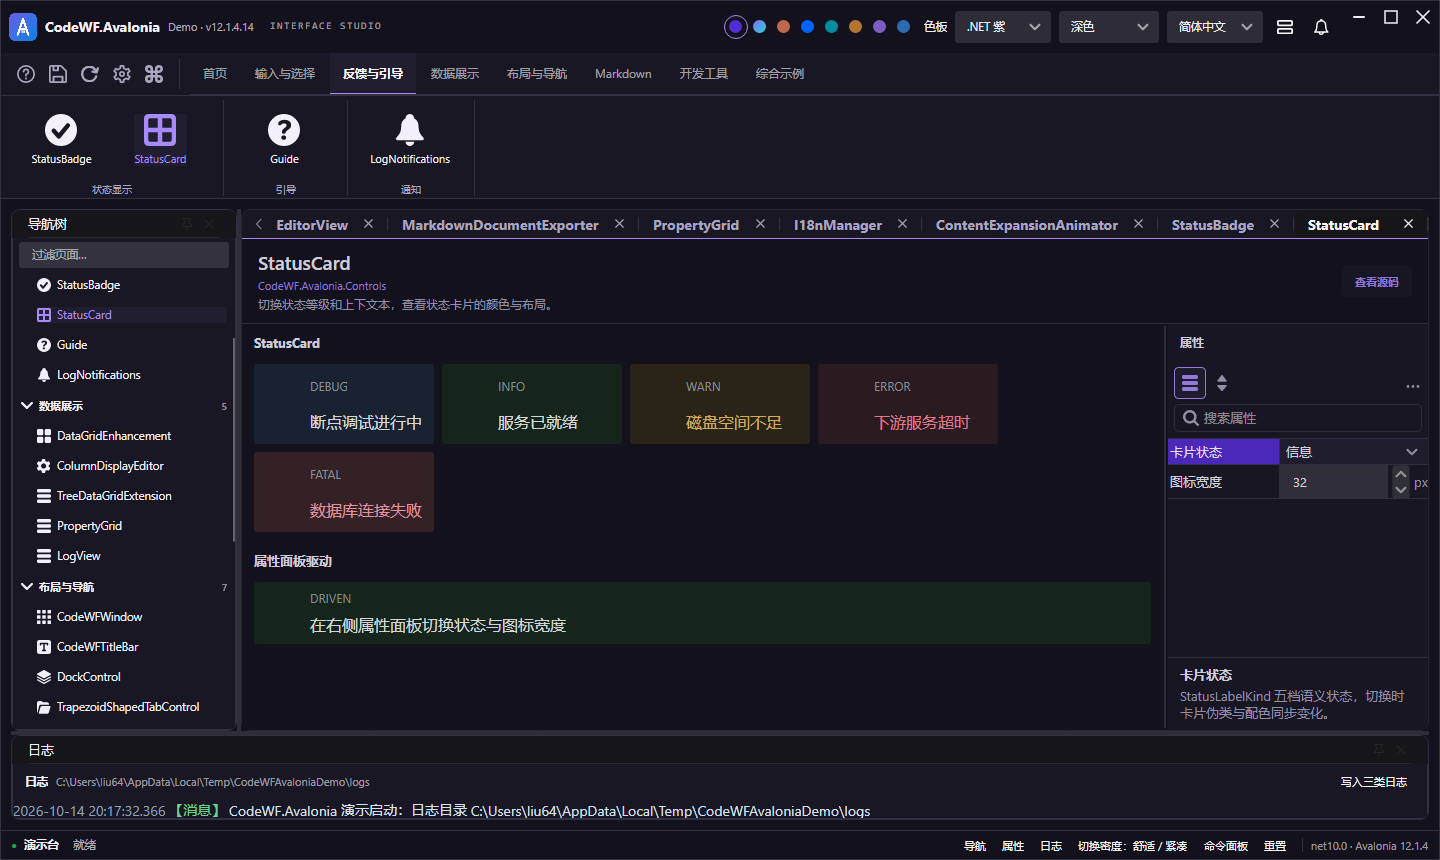
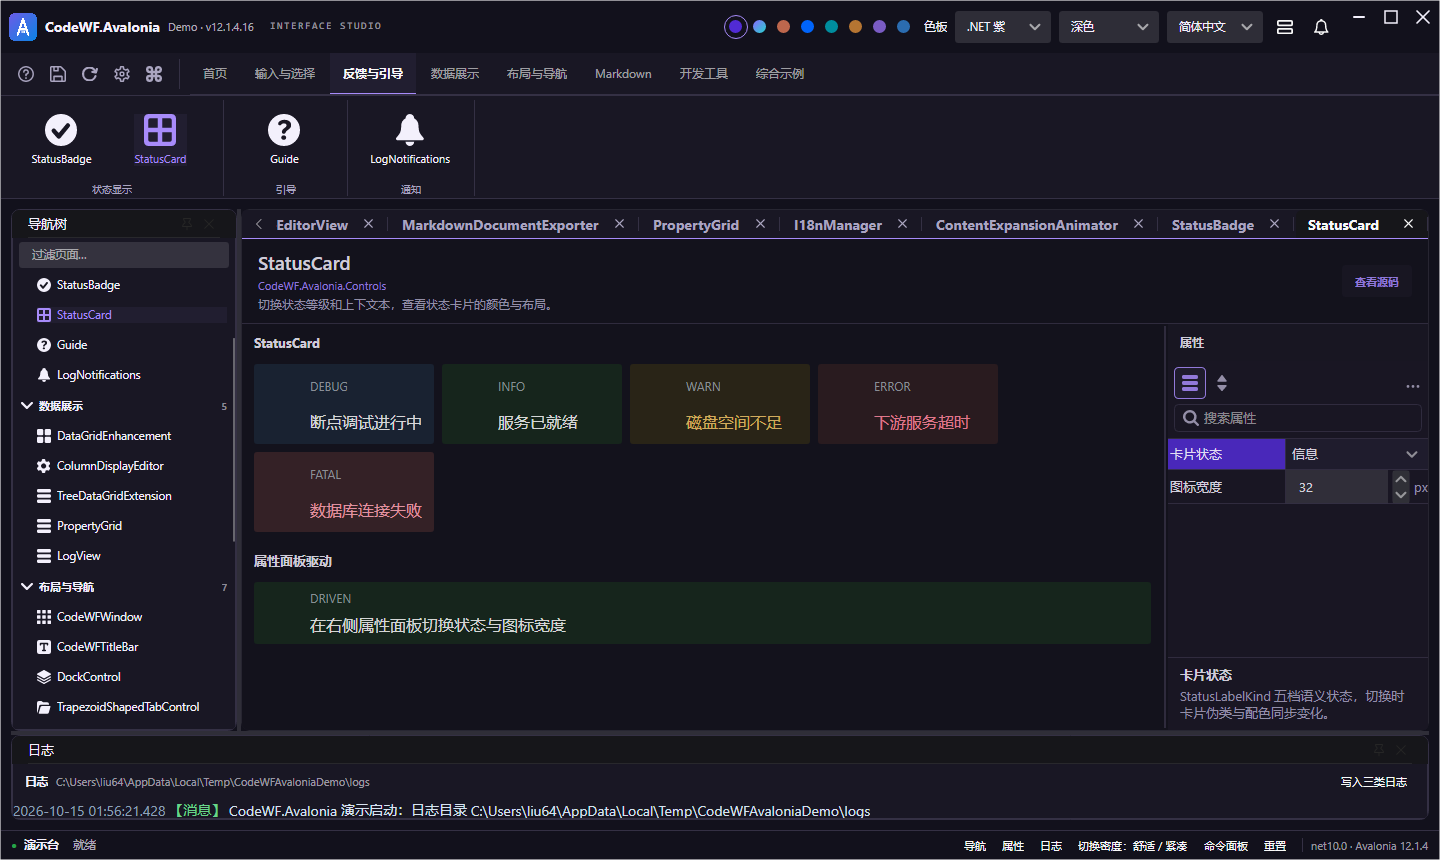
docs(demo): 更新原生截图和自动验收记录

diff --git a/README.md b/README.md
@@ -178,6 +178,8 @@ Each Dock document contains its demonstration and property panel; both move toge
 
 Windows x64 NativeAOT Demo：标题栏支持主题色圈与下拉同步切换，默认 .NET 紫，共八套配色；浅色、深色与跟随系统分别选择。首页目录包含 32 个页面，实验区按需展开；完整功能与验收范围见上面的文档。
 
+快捷入口采用 16×16 图标与 30×30 点击热区，Ribbon 主命令使用 32×32 图标。每个文档内的演示和属性面板通过 GridSplitter 调整宽度，属性默认行高 31px、名称列宽 118px；下列图片来自 `12.1.4.16` 的 Windows x64 NativeAOT 程序。
+
 ![.NET 紫色原生演示台](https://raw.githubusercontent.com/dotnet9/CodeWF.Avalonia/main/docs/images/studio-dotnet.png)
 
 ![AI 极光浅色原生演示台](https://raw.githubusercontent.com/dotnet9/CodeWF.Avalonia/main/docs/images/studio-aurora-light.png)
